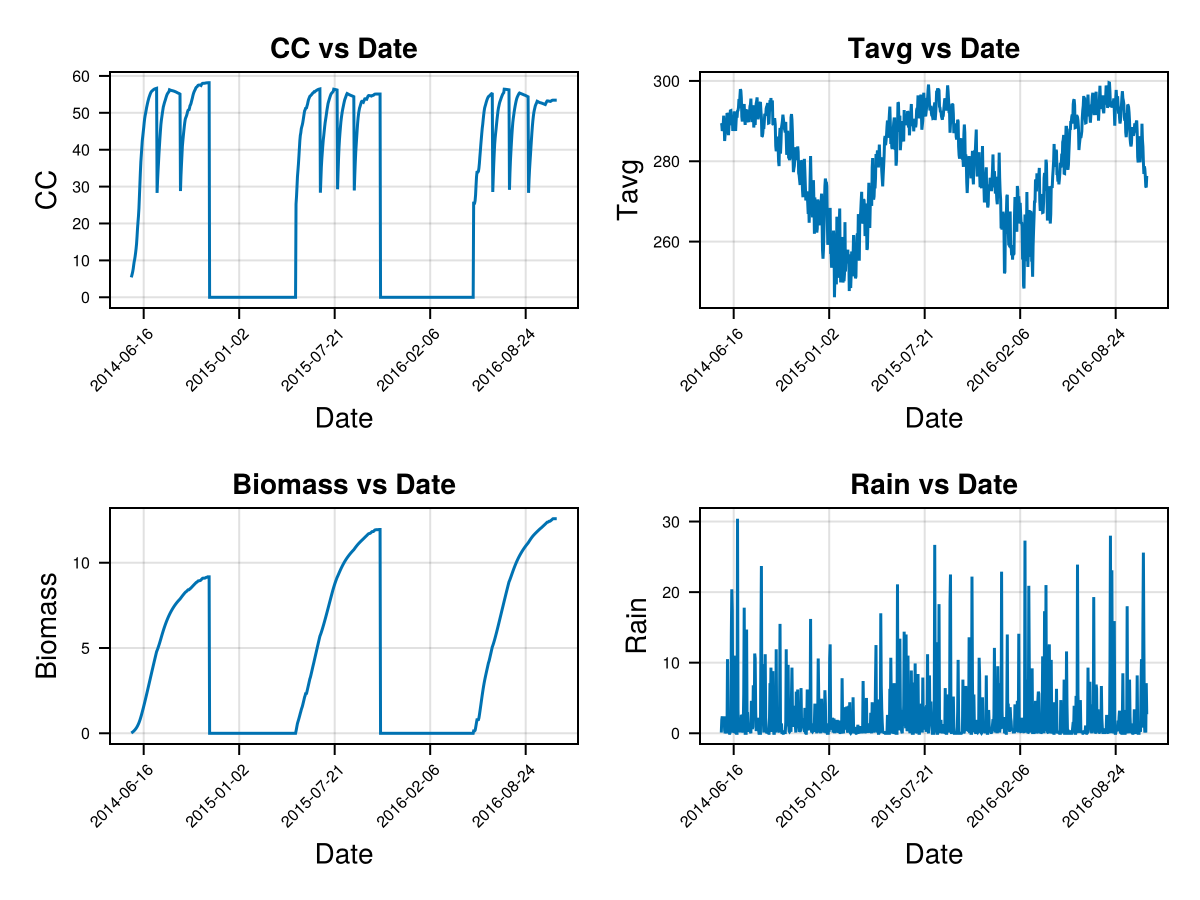
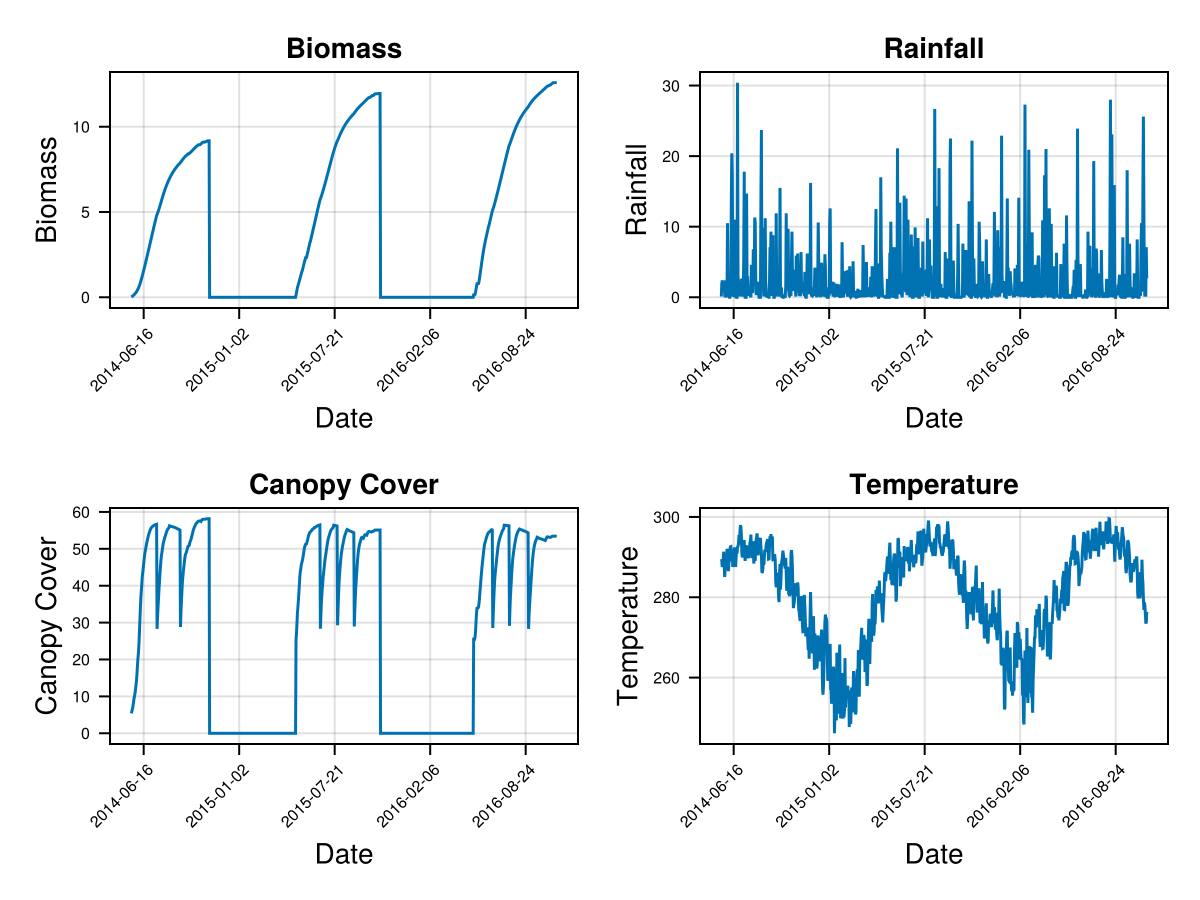
change fig1 subfitugre titles

diff --git a/paper/paper.md b/paper/paper.md
@@ -147,27 +147,27 @@ parentdir = AquaCrop.test_dir;  # ".../AquaCrop.jl/test/testcase"
 
 # Now we can do a simulation run and plot the results
 outputs = basic_run(; runtype=runtype, parentdir=parentdir);
-
 function plot_basic_out(cropfield, cols)
-   x = cropfield[!,"Date"]
-   aux_sz = round(Int, sqrt(length(cols)))
-   f = Figure()
-   for (i, coli) in enumerate(cols)
-       ii, jj = divrem(i-1, aux_sz)
-       ax = Axis(f[ii, jj],
-               title = coli*" vs Date",
-               xlabel = "Date",
-               ylabel = coli
-               )
-       lines!(ax, x, ustrip.(cropfield[!, coli]))
-       ax.xticklabelrotation = π/4
-       ax.xticklabelsize = 8
-       ax.yticklabelsize = 8
-   end
-   return f
+    x = cropfield[!,"Date"]
+    aux_sz = round(Int, sqrt(length(cols)))
+    f = Figure()
+    for (i, coli) in enumerate(keys(cols))
+        ii, jj = divrem(i-1, aux_sz)
+        ax = Axis(f[ii, jj],
+                title = cols[coli],
+                xlabel = "Date",
+                ylabel = cols[coli]
+                )
+        lines!(ax, x, ustrip.(cropfield[!, coli]))
+        ax.xticklabelrotation = π/4
+        ax.xticklabelsize = 8
+        ax.yticklabelsize = 8
+    end
+    return f
 end
 
-f = plot_basic_out(outputs[:dayout], ["CC", "Tavg", "Biomass", "Rain"])
+f = plot_basic_out(outputs[:dayout], Dict("CC"=>"Canopy Cover", "Tavg"=>"Temperature", "Biom
+ass"=>"Biomass", "Rain"=>"Rainfall"))
 ```
 
 ![Simulated Canopy Cover (CC) and Biomass of crops over time in a generic simulation run. We also show the average temperature (Tavg) and rain data\label{fig:biomass}](example.png)
